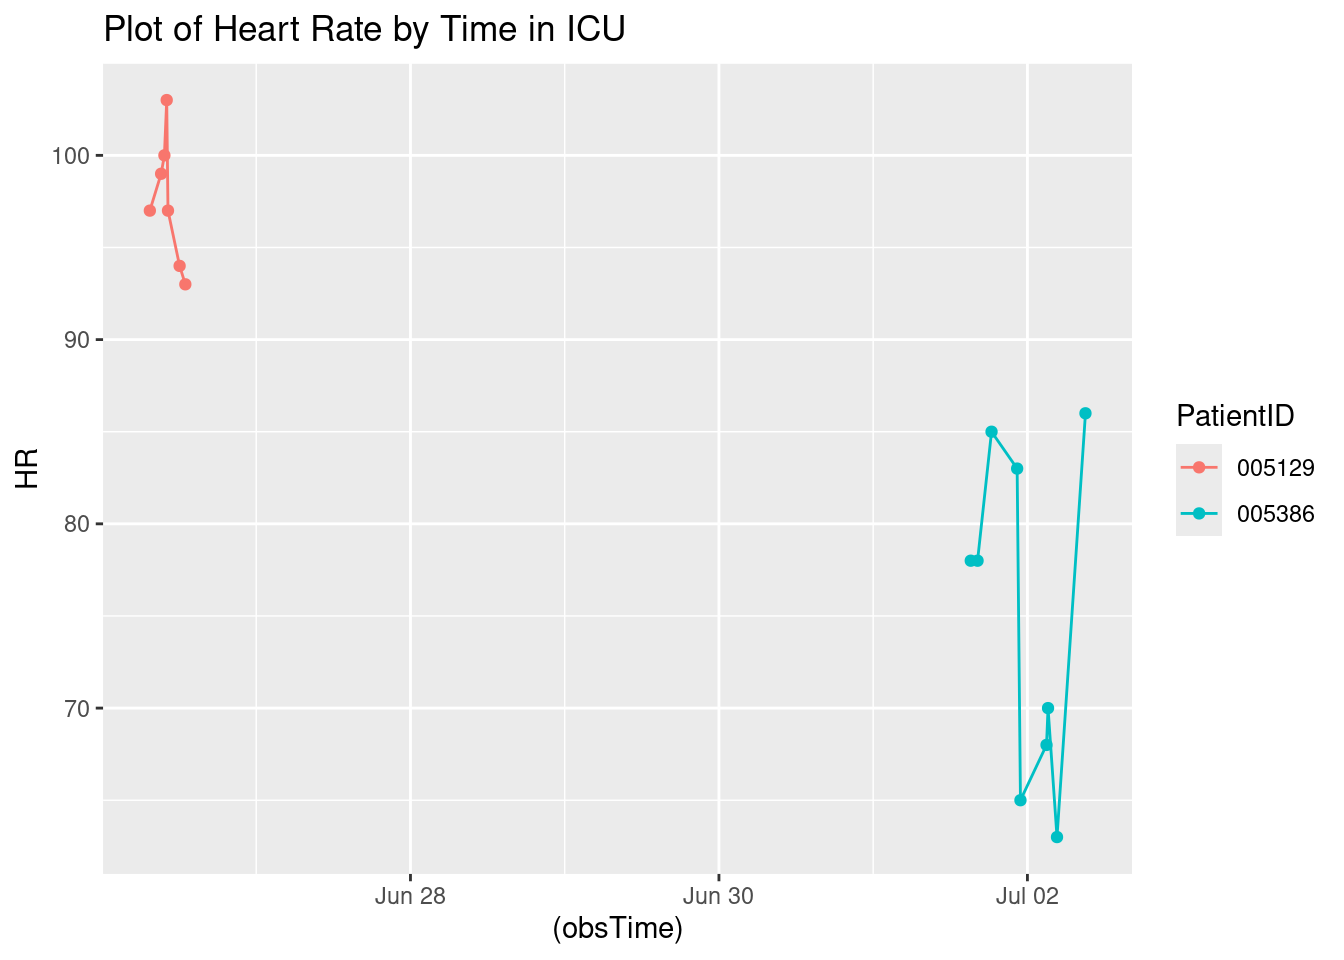
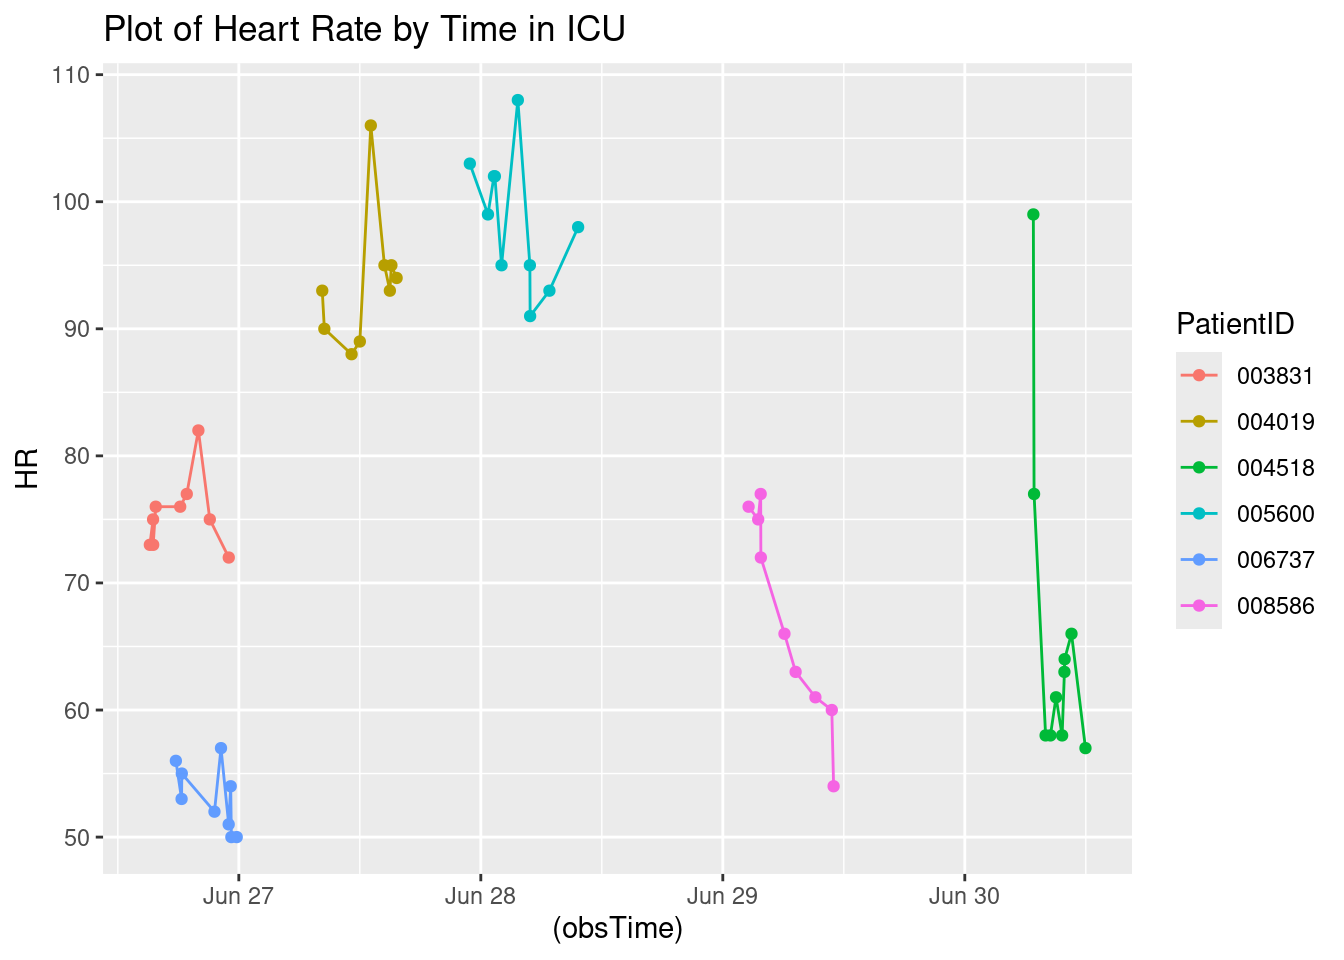
Updated report

diff --git a/A7.html b/A7.html
@@ -116,7 +116,7 @@ pre > code.sourceCode > span > a:first-child::before { text-decoration: underlin
 </div>
 <div class="sourceCode cell-code" id="cb4"><pre class="sourceCode r code-with-copy"><code class="sourceCode r"><span id="cb4-1"><a href="#cb4-1" aria-hidden="true" tabindex="-1"></a><span class="fu">toc</span>()</span></code><button title="Copy to Clipboard" class="code-copy-button"><i class="bi"></i></button></pre></div>
 <div class="cell-output cell-output-stdout">
-<pre><code>25.456 sec elapsed</code></pre>
+<pre><code>14.581 sec elapsed</code></pre>
 </div>
 <div class="sourceCode cell-code" id="cb6"><pre class="sourceCode r code-with-copy"><code class="sourceCode r"><span id="cb6-1"><a href="#cb6-1" aria-hidden="true" tabindex="-1"></a><span class="fu">tic</span>()</span>
 <span id="cb6-2"><a href="#cb6-2" aria-hidden="true" tabindex="-1"></a>test1<span class="ot">=</span><span class="fu">makeSepsisDataset</span>(<span class="at">n=</span><span class="dv">50</span>,<span class="at">read_fn =</span> <span class="st">"read_delim"</span>)</span>
@@ -126,7 +126,7 @@ pre > code.sourceCode > span > a:first-child::before { text-decoration: underlin
 </div>
 <div class="sourceCode cell-code" id="cb8"><pre class="sourceCode r code-with-copy"><code class="sourceCode r"><span id="cb8-1"><a href="#cb8-1" aria-hidden="true" tabindex="-1"></a><span class="fu">toc</span>()</span></code><button title="Copy to Clipboard" class="code-copy-button"><i class="bi"></i></button></pre></div>
 <div class="cell-output cell-output-stdout">
-<pre><code>20.279 sec elapsed</code></pre>
+<pre><code>9.388 sec elapsed</code></pre>
 </div>
 <div class="sourceCode cell-code" id="cb10"><pre class="sourceCode r code-with-copy"><code class="sourceCode r"><span id="cb10-1"><a href="#cb10-1" aria-hidden="true" tabindex="-1"></a><span class="co"># n=100</span></span>
 <span id="cb10-2"><a href="#cb10-2" aria-hidden="true" tabindex="-1"></a><span class="fu">tic</span>()</span>
@@ -137,7 +137,7 @@ pre > code.sourceCode > span > a:first-child::before { text-decoration: underlin
 </div>
 <div class="sourceCode cell-code" id="cb12"><pre class="sourceCode r code-with-copy"><code class="sourceCode r"><span id="cb12-1"><a href="#cb12-1" aria-hidden="true" tabindex="-1"></a><span class="fu">toc</span>()</span></code><button title="Copy to Clipboard" class="code-copy-button"><i class="bi"></i></button></pre></div>
 <div class="cell-output cell-output-stdout">
-<pre><code>46.818 sec elapsed</code></pre>
+<pre><code>15.947 sec elapsed</code></pre>
 </div>
 <div class="sourceCode cell-code" id="cb14"><pre class="sourceCode r code-with-copy"><code class="sourceCode r"><span id="cb14-1"><a href="#cb14-1" aria-hidden="true" tabindex="-1"></a><span class="fu">tic</span>()</span>
 <span id="cb14-2"><a href="#cb14-2" aria-hidden="true" tabindex="-1"></a>test1<span class="ot">=</span><span class="fu">makeSepsisDataset</span>(<span class="at">n=</span><span class="dv">100</span>,<span class="at">read_fn =</span> <span class="st">"read_delim"</span>)</span>
@@ -147,7 +147,7 @@ pre > code.sourceCode > span > a:first-child::before { text-decoration: underlin
 </div>
 <div class="sourceCode cell-code" id="cb16"><pre class="sourceCode r code-with-copy"><code class="sourceCode r"><span id="cb16-1"><a href="#cb16-1" aria-hidden="true" tabindex="-1"></a><span class="fu">toc</span>()</span></code><button title="Copy to Clipboard" class="code-copy-button"><i class="bi"></i></button></pre></div>
 <div class="cell-output cell-output-stdout">
-<pre><code>39.735 sec elapsed</code></pre>
+<pre><code>17.441 sec elapsed</code></pre>
 </div>
 <div class="sourceCode cell-code" id="cb18"><pre class="sourceCode r code-with-copy"><code class="sourceCode r"><span id="cb18-1"><a href="#cb18-1" aria-hidden="true" tabindex="-1"></a><span class="co"># n=500</span></span>
 <span id="cb18-2"><a href="#cb18-2" aria-hidden="true" tabindex="-1"></a><span class="fu">tic</span>()</span>
@@ -158,7 +158,7 @@ pre > code.sourceCode > span > a:first-child::before { text-decoration: underlin
 </div>
 <div class="sourceCode cell-code" id="cb20"><pre class="sourceCode r code-with-copy"><code class="sourceCode r"><span id="cb20-1"><a href="#cb20-1" aria-hidden="true" tabindex="-1"></a><span class="fu">toc</span>()</span></code><button title="Copy to Clipboard" class="code-copy-button"><i class="bi"></i></button></pre></div>
 <div class="cell-output cell-output-stdout">
-<pre><code>235.218 sec elapsed</code></pre>
+<pre><code>80.523 sec elapsed</code></pre>
 </div>
 <div class="sourceCode cell-code" id="cb22"><pre class="sourceCode r code-with-copy"><code class="sourceCode r"><span id="cb22-1"><a href="#cb22-1" aria-hidden="true" tabindex="-1"></a><span class="fu">tic</span>()</span>
 <span id="cb22-2"><a href="#cb22-2" aria-hidden="true" tabindex="-1"></a>test1<span class="ot">=</span><span class="fu">makeSepsisDataset</span>(<span class="at">n=</span><span class="dv">500</span>,<span class="at">read_fn =</span> <span class="st">"read_delim"</span>)</span>
@@ -168,7 +168,7 @@ pre > code.sourceCode > span > a:first-child::before { text-decoration: underlin
 </div>
 <div class="sourceCode cell-code" id="cb24"><pre class="sourceCode r code-with-copy"><code class="sourceCode r"><span id="cb24-1"><a href="#cb24-1" aria-hidden="true" tabindex="-1"></a><span class="fu">toc</span>()</span></code><button title="Copy to Clipboard" class="code-copy-button"><i class="bi"></i></button></pre></div>
 <div class="cell-output cell-output-stdout">
-<pre><code>200.628 sec elapsed</code></pre>
+<pre><code>87.132 sec elapsed</code></pre>
 </div>
 </div>
 <p><strong>Task 3</strong></p>
@@ -194,7 +194,7 @@ pre > code.sourceCode > span > a:first-child::before { text-decoration: underlin
 <span id="cb28-4"><a href="#cb28-4" aria-hidden="true" tabindex="-1"></a></span>
 <span id="cb28-5"><a href="#cb28-5" aria-hidden="true" tabindex="-1"></a><span class="fu">Sys.time</span>()</span></code><button title="Copy to Clipboard" class="code-copy-button"><i class="bi"></i></button></pre></div>
 <div class="cell-output cell-output-stdout">
-<pre><code>[1] "2024-06-26 07:26:54 UTC"</code></pre>
+<pre><code>[1] "2024-06-26 08:27:22 UTC"</code></pre>
 </div>
 <div class="sourceCode cell-code" id="cb30"><pre class="sourceCode r code-with-copy"><code class="sourceCode r"><span id="cb30-1"><a href="#cb30-1" aria-hidden="true" tabindex="-1"></a>dfnew <span class="ot">&lt;-</span> df <span class="sc">%&gt;%</span></span>
 <span id="cb30-2"><a href="#cb30-2" aria-hidden="true" tabindex="-1"></a>  <span class="fu">subset</span>(SepsisLabel<span class="sc">==</span><span class="dv">1</span>)</span>
@@ -223,22 +223,58 @@ pre > code.sourceCode > span > a:first-child::before { text-decoration: underlin
 </thead>
 <tbody>
 <tr class="odd">
-<td style="text-align: left;">005129</td>
-<td style="text-align: right;">6</td>
-<td style="text-align: right;">93</td>
-<td style="text-align: right;">38.2</td>
-<td style="text-align: right;">20</td>
+<td style="text-align: left;">003831</td>
+<td style="text-align: right;">15</td>
+<td style="text-align: right;">72</td>
+<td style="text-align: right;">NA</td>
+<td style="text-align: right;">17</td>
 <td style="text-align: right;">1</td>
-<td style="text-align: left;">2024-06-26 12:58:11</td>
+<td style="text-align: left;">2024-06-26 23:00:10</td>
 </tr>
 <tr class="even">
-<td style="text-align: left;">005386</td>
-<td style="text-align: right;">146</td>
-<td style="text-align: right;">86</td>
+<td style="text-align: left;">004019</td>
+<td style="text-align: right;">32</td>
+<td style="text-align: right;">94</td>
 <td style="text-align: right;">NA</td>
-<td style="text-align: right;">26</td>
+<td style="text-align: right;">19</td>
 <td style="text-align: right;">1</td>
-<td style="text-align: left;">2024-07-02 09:01:56</td>
+<td style="text-align: left;">2024-06-27 15:38:57</td>
+</tr>
+<tr class="odd">
+<td style="text-align: left;">004518</td>
+<td style="text-align: right;">102</td>
+<td style="text-align: right;">57</td>
+<td style="text-align: right;">NA</td>
+<td style="text-align: right;">12</td>
+<td style="text-align: right;">1</td>
+<td style="text-align: left;">2024-06-30 11:58:03</td>
+</tr>
+<tr class="even">
+<td style="text-align: left;">005600</td>
+<td style="text-align: right;">50</td>
+<td style="text-align: right;">98</td>
+<td style="text-align: right;">38.06</td>
+<td style="text-align: right;">13</td>
+<td style="text-align: right;">1</td>
+<td style="text-align: left;">2024-06-28 09:39:05</td>
+</tr>
+<tr class="odd">
+<td style="text-align: left;">006737</td>
+<td style="text-align: right;">16</td>
+<td style="text-align: right;">50</td>
+<td style="text-align: right;">NA</td>
+<td style="text-align: right;">14</td>
+<td style="text-align: right;">1</td>
+<td style="text-align: left;">2024-06-26 23:47:33</td>
+</tr>
+<tr class="even">
+<td style="text-align: left;">008586</td>
+<td style="text-align: right;">75</td>
+<td style="text-align: right;">54</td>
+<td style="text-align: right;">36.30</td>
+<td style="text-align: right;">21</td>
+<td style="text-align: right;">1</td>
+<td style="text-align: left;">2024-06-29 10:59:18</td>
 </tr>
 </tbody>
 </table>
